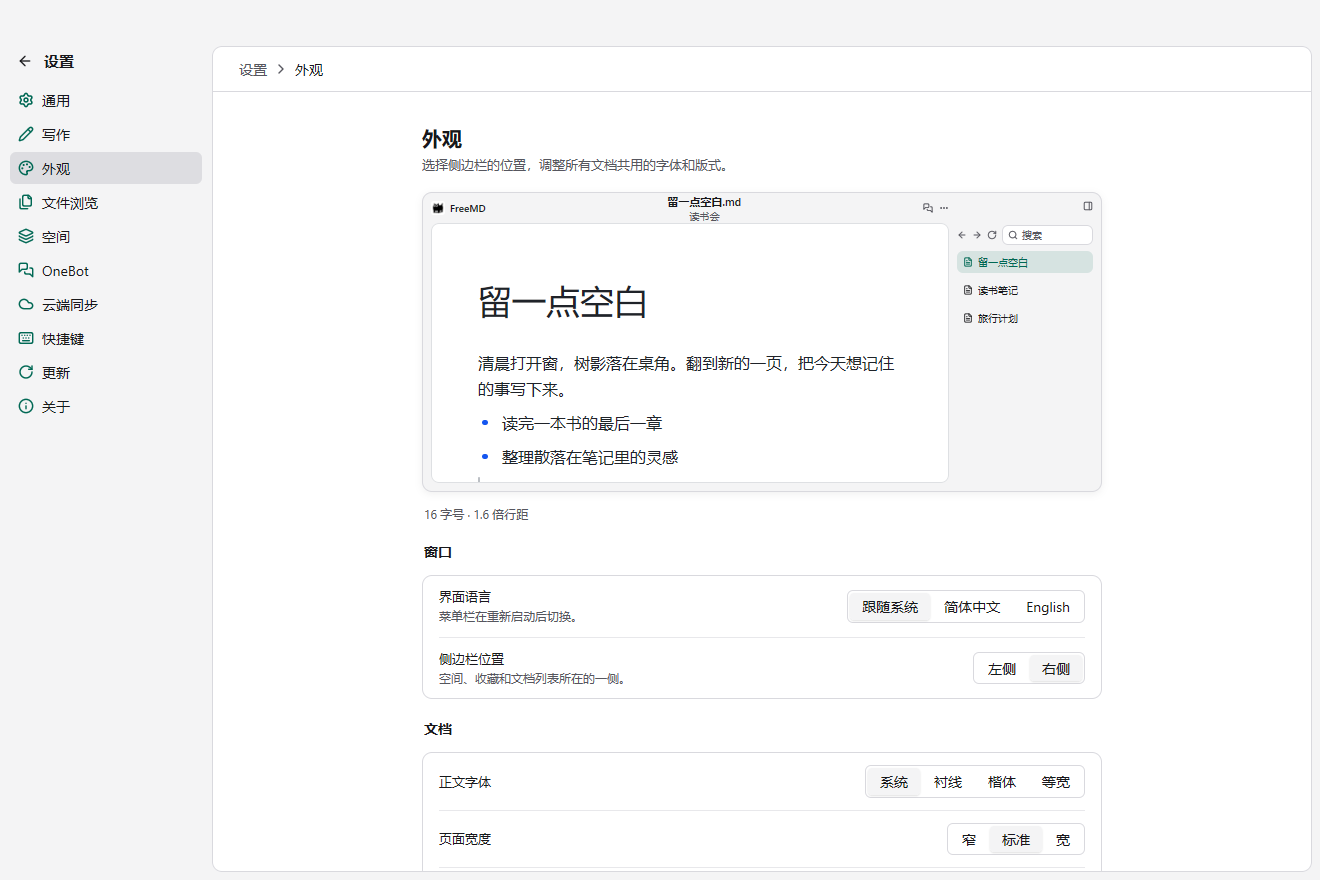
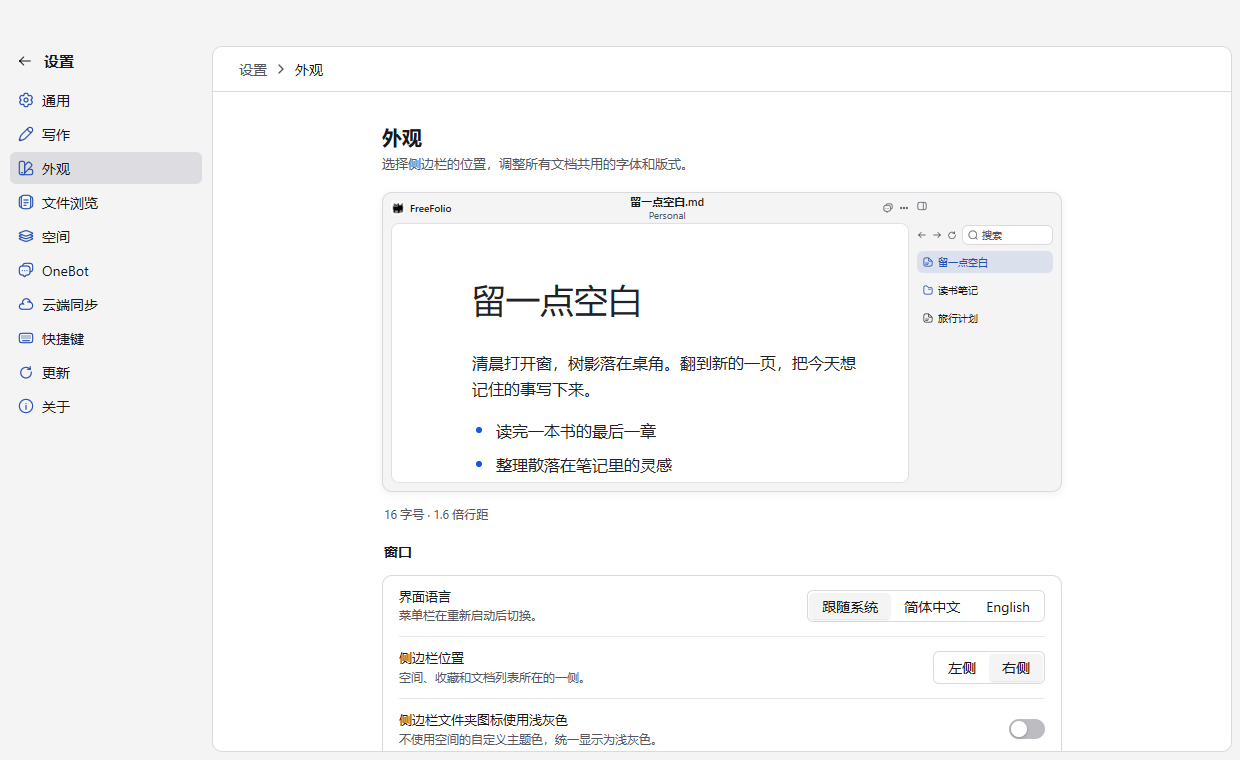
docs(readme): 更新界面预览图与多功能工作台说明

diff --git a/README.en.md b/README.en.md
@@ -4,7 +4,7 @@
 
 # FreeFolio
 
-**A customized, local-first native Markdown editor built in Go + MyGo, derived from ArcMD.**
+**A customized, local-first desktop multi-function workbench derived from ArcMD.**
 
 [简体中文](README.md) · English
 
@@ -19,36 +19,28 @@
 
 ## Preview
 
-[![Home view with a book club note, a task list, and a schedule](assets/FreeFolio-home.png)](assets/FreeFolio-home.png)
+[![FreeFolio main workspace with the note editor and property table on the left, OneBot assistant in the center, and space sidebar on the right](assets/FreeFolio-home.png)](assets/FreeFolio-home.png)
 
 <p align="center">
-  <a href="assets/FreeFolio-settings.png"><img src="assets/FreeFolio-settings.png" width="48%" alt="Settings for language, file list position, and fonts"></a>
-  <a href="assets/FreeFolio-whiteboard.png"><img src="assets/FreeFolio-whiteboard.png" width="48%" alt="Whiteboard with sticky notes and arrows for a book club plan"></a>
+  <a href="assets/FreeFolio-filemode.png"><img src="assets/FreeFolio-filemode.png" width="48%" alt="File browsing mode with a document tab and floating outline on the right"></a>
+  <a href="assets/FreeFolio-settings.png"><img src="assets/FreeFolio-settings.png" width="48%" alt="Settings page showing the live appearance preview, language, and sidebar position options"></a>
 </p>
 
-[Home](assets/FreeFolio-home.png) · [Settings](assets/FreeFolio-settings.png) · [Whiteboard](assets/FreeFolio-whiteboard.png)
+[Workspace](assets/FreeFolio-home.png) · [File browsing](assets/FreeFolio-filemode.png) · [Settings](assets/FreeFolio-settings.png)
 
 ## About FreeFolio
 
-FreeFolio is an app for notes and drawings. It saves your notes in folders on your
-computer. You can write notes without an internet connection.
+FreeFolio is a local-first desktop multi-function workbench that combines note writing, multi-format document reading, whiteboards, and an AI assistant in one place.
+
+Your notes, documents, and whiteboards live in local folders on your computer, so you can keep writing, reading, and organizing even without an internet connection.
 
 ## What you can do
 
-- **Write notes.** Add pictures, tables, and lists of tasks to your class notes
-  or meeting notes.
-- **Browse files.** Open a note from any folder on your computer. You do not
-  need to add the folder first. FreeFolio shows selected files in separate tabs.
-  Save changes to the original file. Use **Save As** to save a copy. FreeFolio
-  opens only the files you select. It does not scan the whole folder. Close
-  file browsing to return to the space you used before.
-- **Find notes.** Use different folders for work notes and personal notes.
-  Enter words from a note in the search box.
-- **Find a section in a long note.** Use a diagram to see the headings and
-  lists in a note. Select an item in the diagram to go to that part of the note.
-- **Make drawings on a whiteboard.** Write ideas on sticky notes. Use shapes
-  and arrows to show the steps in a plan.
-- **Share notes.** Save a note as a PDF. You can send or print this file.
+- **Write and format notes.** Create class notes, project docs, or long-form drafts with note properties, images, tables, task lists, math formulas, and diagrams. Switch to full-width pages and export notes as PDF or HTML pages.
+- **Read multiple formats and edit PDF pages.** Edit plain-text files directly, or open Word, Excel, PowerPoint, WPS, e-books, emails, mind maps, and archives in read-only view and click **Save as an Editable Markdown Copy** when you want to edit them. In PDFs, search inside the file, browse **Thumbnails and Contents**, or open **Edit PDF Pages** to rotate, delete, extract, split, merge, encrypt, and decrypt pages.
+- **Organize spaces and jump straight to what you need.** Separate work and personal files into multiple spaces, or drag a folder from your file manager onto **+** to add a new space. Search across notes and PDFs, and use the **Outline** or document map to jump to any section in a long note.
+- **Browse files anywhere.** Choose **Open File…** to open documents from any folder on your computer without adding that folder to a space. Opened files stay in separate tabs where you can save in place or use **Save as…**, without scanning the whole folder. Select **Return to workspace** to go back to your previous space.
+- **Sketch on whiteboards.** Switch to **Whiteboard** from the home view or sidebar to jot ideas on sticky notes, connect plans with shapes and arrows, or view a whiteboard side by side with a note.
 
 ## Download and start
 
@@ -59,28 +51,28 @@ computer. You can write notes without an internet connection.
 3. Open the downloaded file.
 4. Follow the instructions on the screen to install FreeFolio.
 
-### Create or open a note
+### Get started
 
-Open FreeFolio.
+Open FreeFolio to view your workspace and sidebar:
 
-- For a new note, select **+** above the list of files.
-- To open a note in a space, select the folder icon below the list of files.
-  Select a file with a name that ends in **.md**.
-- To open a note outside a space, select **Open File…**. FreeFolio opens file
-  browsing. The file stays in its original folder.
-- Close file browsing to return to the space you used before.
+1. **Create a note or space**: Select **+** above the document list for a new note, or select **+** in the space bar (or drag a folder onto **+**) to add a new space.
+2. **Open an existing file**: In a space, select the folder icon below the file list and choose a **.md** note or another supported document. To open a file outside your spaces, select **Open File…** to enter file browsing mode, and choose **Return to workspace** or **Close Document** when you finish.
+3. **Check the result**: Changes to your notes save automatically to your local folder, and you can select **Settings…** at the bottom to adjust language, fonts, or sidebar placement.
 
 ## Options
 
-- **Use OneBot for help with your notes.** Add your AI service in **Settings**.
-  You can ask OneBot questions about your notes. You can also ask OneBot to
-  change text. You can see the changes before you accept them.
-- **Use the same notes on more than one computer.** Connect to an online
-  storage service that FreeFolio supports. Select the folders to use on each
-  computer. This option is off when you first use FreeFolio.
+- **Ask OneBot for help.** Add your AI service or sign in with your ChatGPT account in **Settings → OneBot**. Ask questions across notes and PDFs in the current space with source citations, or drop files and images into the chat to ask OneBot for edits and review the suggested changes before applying them.
+- **Keep notes in sync across computers.** Connect a supported cloud storage service in **Settings → Cloud Sync**, choose only the spaces you want to sync, and turn on content encryption if needed. Cloud sync is off by default.
+- **Customize appearance and writing.** Adjust themes, fonts, line spacing, page width, sidebar placement, typewriter scrolling, and focus mode under **Settings → Appearance** and **Settings → Writing**.
+
+## Notes
+
+- **Offline use vs. online features**: Your notes and local documents stay on your computer so writing, reading, and whiteboards work offline. An internet connection is only needed for OneBot queries, cloud sync, and update checks.
+- **Opt-in sync and read-only protection**: Cloud sync stays off until you turn it on for selected spaces. Read-only converted formats never modify the original file; save an editable copy if you need to make changes.
+- **Updates and plugins**: On Windows, check and install updates in **Settings → Update** using **Check for Updates…**; other platforms link to the download page. The plugin marketplace is still in development (planned).
 
 ## Sources and license
 
-FreeFolio uses ArcMD as its base. FreeFolio uses the MIT License.
+FreeFolio uses ArcMD as its base and follows the MIT License.
 
 [ArcMD](https://github.com/Ciao1019/ArcMD) · [MIT License](LICENSE) · [Third-party credits](third_party/README.md)
